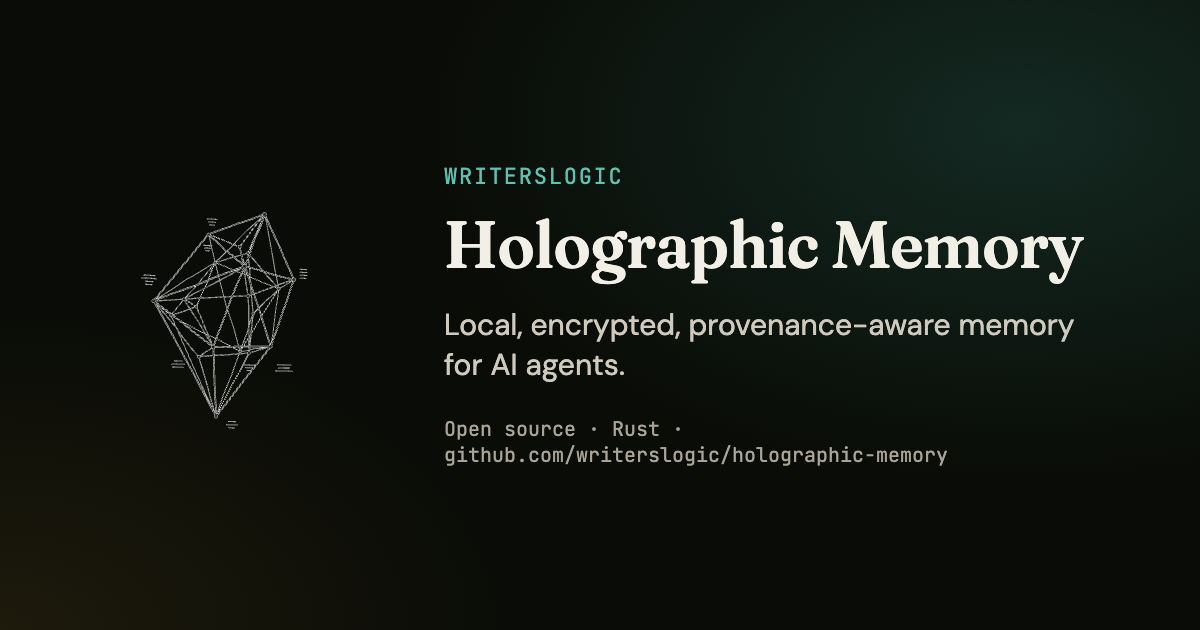
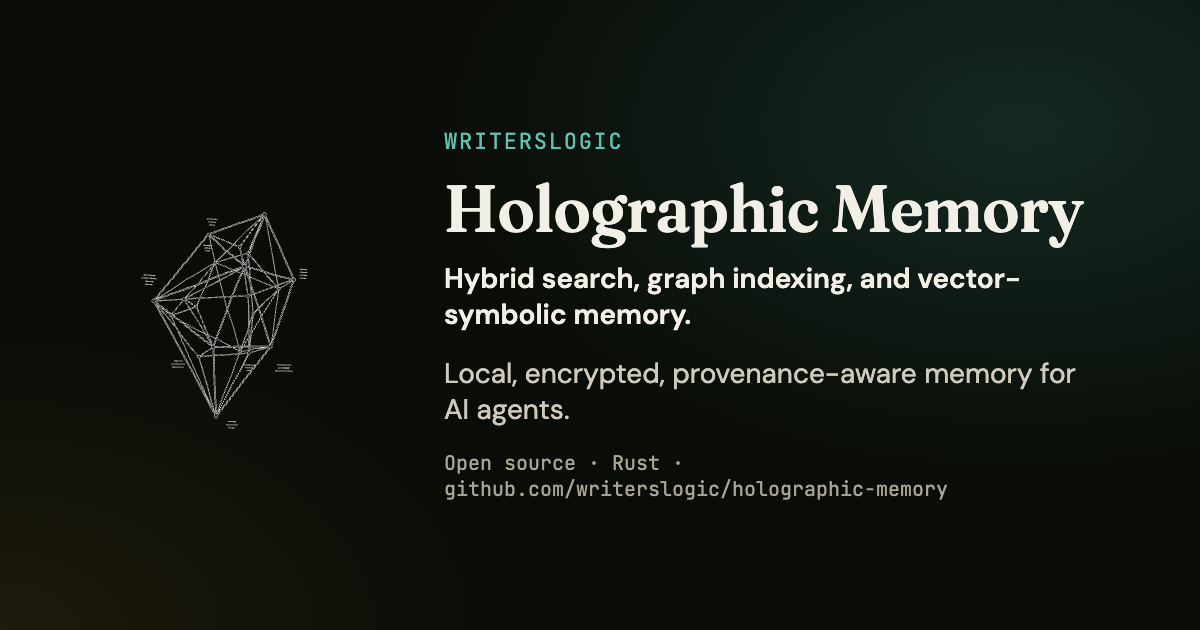
feat: redirect legacy memory domains to WARM

Changed region(s): [[0.37, 0.2111, 0.925, 0.8143]]

diff --git a/tests/apex-redirect.test.ts b/tests/apex-redirect.test.ts
@@ -1,33 +1,27 @@
 import { describe, expect, it } from "vitest";
-import { apexRedirect, docsRedirect, onRequest } from "../functions/_middleware";
+import { migrationRedirect, onRequest } from "../functions/_middleware";
 
-describe("www to apex redirect", () => {
-  it("sends www to the apex with path and query kept, leaves other hosts alone", () => {
-    expect(apexRedirect(new URL("http://www.holographic-memory.com/about?q=1#x"))).toBe(
-      "https://holographic-memory.com/about?q=1#x",
-    );
-    expect(apexRedirect(new URL("https://holographic-memory.com/"))).toBeNull();
-    expect(apexRedirect(new URL("https://www.holographic-memory.pages.dev/"))).toBeNull();
+describe("WARM migration", () => {
+  it("preserves product and documentation paths, queries and fragments", () => {
+    for (const host of ["holographic-memory.com", "www.holographic-memory.com"]) {
+      expect(migrationRedirect(new URL(`https://${host}/?plan=cloud#pricing`), "GET")).toBe("https://writerslogic.com/warm?plan=cloud#pricing");
+      expect(migrationRedirect(new URL(`https://${host}/docs/latest/quickstart/?q=1`), "HEAD")).toBe("https://writerslogic.com/warm/docs/latest/quickstart/?q=1");
+    }
+    expect(migrationRedirect(new URL("https://docs.holographic-memory.com/latest/quickstart/"), "GET")).toBe("https://writerslogic.com/warm/docs/latest/quickstart/");
   });
-
-  it("answers www with a 301 and passes the apex through", async () => {
-    const passed = new Response("ok");
-    const next = () => Promise.resolve(passed);
-    const www = await onRequest({ request: new Request("https://www.holographic-memory.com/a"), next });
-    expect(www.status).toBe(301);
-    expect(www.headers.get("location")).toBe("https://holographic-memory.com/a");
-    expect(await onRequest({ request: new Request("https://holographic-memory.com/a"), next })).toBe(passed);
-  });
-
-  it("sends /docs and its subpaths to the docs subdomain from either host", async () => {
-    expect(docsRedirect(new URL("https://holographic-memory.com/docs"))).toBe("https://docs.holographic-memory.com/");
-    expect(docsRedirect(new URL("https://www.holographic-memory.com/docs/latest/quickstart/?q=1"))).toBe(
-      "https://docs.holographic-memory.com/latest/quickstart/?q=1",
-    );
-    expect(docsRedirect(new URL("https://holographic-memory.com/docsearch"))).toBeNull();
-    const next = () => Promise.resolve(new Response("ok"));
-    const res = await onRequest({ request: new Request("https://www.holographic-memory.com/docs/dev/"), next });
-    expect(res.status).toBe(301);
-    expect(res.headers.get("location")).toBe("https://docs.holographic-memory.com/dev/");
+  it("leaves API requests, writes and preview hosts alone", async () => {
+    const next = () => Promise.resolve(new Response("passed"));
+    for (const [url, method] of [
+      ["https://holographic-memory.com/api/hms/checkout?plan=cloud", "GET"],
+      ["https://holographic-memory.com/api/hms/portal", "POST"],
+      ["https://holographic-memory.com/webhook", "POST"],
+      ["https://preview.holographic-memory.pages.dev/", "GET"],
+    ]) {
+      expect(migrationRedirect(new URL(url), method)).toBeNull();
+      expect(await (await onRequest({ request: new Request(url, { method }), next })).text()).toBe("passed");
+    }
+    const result = await onRequest({ request: new Request("https://holographic-memory.com/"), next });
+    expect(result.status).toBe(301);
+    expect(result.headers.get("location")).toBe("https://writerslogic.com/warm");
   });
 });

diff --git a/src/content/hms.ts b/src/content/hms.ts
@@ -3,12 +3,13 @@
 // Plain data (no import.meta.env, no React) so the page, the server render and the
 // tests can all import it. Every factual claim carries the committed source in
 // github.com/writerslogic/holographic-memory (main) that backs it; a claim without a
-// committed source is worded as "in progress". writerslogic.com keeps a shorter copy
-// of the shared claims in src/content/hms.ts; keep the two in step.
+// committed source is worded as "in progress". Keep the shorter product copy on
+// writerslogic.com in step with this file.
 
 import { SIFT_QPS_FACTOR_095 } from "./benchmarks";
 
 export const HMS_NAME = "Holographic Memory";
+export const HMS_TECHNICAL_LINE = "Hybrid search, graph indexing, and vector-symbolic memory.";
 export const HMS_FULL_NAME = "WritersLogic Holographic Memory";
 export const HMS_CLOUD_NAME = "WritersLogic Holographic Memory Cloud";
 export const HMS_SHORT = "HMS";
@@ -18,7 +19,7 @@ export const HMS_CANONICAL = `${HMS_PRODUCT_ORIGIN}/`;
 export const HMS_COMPANY_URL = "https://writerslogic.com";
 export const HMS_OG_IMAGE = `${HMS_PRODUCT_ORIGIN}/og-image.png`;
 export const HMS_OG_IMAGE_ALT =
-  "WritersLogic Holographic Memory: local, encrypted, provenance-aware memory for AI agents";
+  `WritersLogic Holographic Memory: ${HMS_TECHNICAL_LINE}`;
 
 export const HMS_TAGLINE =
   "Local, encrypted, provenance-aware memory for AI agents.";
@@ -294,12 +295,12 @@ export const HMS_FAQ: { q: string; a: string }[] = [
 // ── Static-shell metadata (written into dist/index.html by scripts/prerender.mjs)
 
 export const HMS_META = {
-  title: `${HMS_FULL_NAME}: Local, Encrypted Memory for AI Agents`,
+  title: `${HMS_FULL_NAME} | Hybrid Search, Graph Indexing, Vector-Symbolic Memory`,
   description:
-    "Embeddable memory for AI agents that runs on your machine. Hybrid search, vector-symbolic fact memory, optional encryption at rest and signed provenance in one open-source Rust engine. No service calls.",
+    `${HMS_TECHNICAL_LINE} Embeddable memory for AI agents that runs on your machine, with optional encryption at rest and signed provenance.`,
   ogTitle: `${HMS_FULL_NAME}`,
   ogDescription:
-    "Local, encrypted, provenance-aware memory for AI agents. Open-source Rust engine that stays on your machine; encrypted sync, backup and verification Cloud in development.",
+    `${HMS_TECHNICAL_LINE} An open-source Rust engine that stays on your machine.`,
 } as const;
 
 export const HMS_JSON_LD = {

diff --git a/functions/_middleware.ts b/functions/_middleware.ts
@@ -1,32 +1,18 @@
-// The apex is canonical: requests for www.holographic-memory.com get a permanent redirect
-// to the same path and query on holographic-memory.com. /docs and everything under it moves
-// to the docs subdomain, as writerslogic.com/docs does. Every other request passes through.
+const LEGACY_HOSTS = new Set(["holographic-memory.com", "www.holographic-memory.com", "docs.holographic-memory.com"]);
+const DESTINATION = "https://writerslogic.com/warm";
 
-const APEX = "holographic-memory.com";
-const DOCS = `https://docs.${APEX}`;
-
-export function docsRedirect(url: URL): string | null {
-  if (url.pathname !== "/docs" && !url.pathname.startsWith("/docs/")) return null;
-  return DOCS + (url.pathname.slice("/docs".length) || "/") + url.search;
+export function migrationRedirect(url: URL, method: string): string | null {
+  if (!LEGACY_HOSTS.has(url.hostname) || !["GET", "HEAD"].includes(method)) return null;
+  if (url.pathname === "/api" || url.pathname.startsWith("/api/")) return null;
+  const docsHost = url.hostname === "docs.holographic-memory.com";
+  const path = url.pathname === "/" ? "" : url.pathname;
+  return `${DESTINATION}${docsHost ? "/docs" : ""}${path}${url.search}${url.hash}`;
 }
 
-export function apexRedirect(url: URL): string | null {
-  if (url.hostname !== `www.${APEX}`) return null;
-  const to = new URL(url.toString());
-  to.hostname = APEX;
-  to.protocol = "https:";
-  to.port = "";
-  return to.toString();
-}
-
-export const onRequest = async ({
-  request,
-  next,
-}: {
+export const onRequest = async ({ request, next }: {
   request: Request;
   next: () => Promise<Response>;
 }): Promise<Response> => {
-  const url = new URL(request.url);
-  const to = docsRedirect(url) ?? apexRedirect(url);
-  return to ? Response.redirect(to, 301) : next();
+  const target = migrationRedirect(new URL(request.url), request.method);
+  return target ? Response.redirect(target, 301) : next();
 };

diff --git a/tests/docs-redirect.test.ts b/tests/docs-redirect.test.ts
@@ -1,0 +1,27 @@
+import { describe, expect, it } from "vitest";
+import { createHash } from "node:crypto";
+import worker from "../workers/docs-redirect/index.js";
+
+describe("legacy documentation migration", () => {
+  it("preserves the published immutable context bytes at their original URI", async () => {
+    const response = await worker.fetch(new Request("https://docs.holographic-memory.com/ns/hms/v1.jsonld"));
+    expect(response.status).toBe(200);
+    expect(response.headers.get("content-type")).toContain("application/ld+json");
[1 lines of base64/hex data omitted]
+  });
+  it("makes the latest destination explicit for retired documentation versions", async () => {
+    for (const version of ["v0.6.4", "v0.6.3", "v0.6.1"]) {
+      const result = await worker.fetch(new Request(`https://docs.holographic-memory.com/${version}/quickstart/?q=1`));
+      expect(result.headers.get("location")).toBe("https://writerslogic.com/warm/docs/latest/quickstart/?q=1");
+    }
+  });
+
+  it("redirects documentation paths and queries while refusing writes", async () => {
+    const result = await worker.fetch(new Request("https://docs.holographic-memory.com/latest/quickstart/?q=1"));
+    expect(result.status).toBe(301);
+    expect(result.headers.get("location")).toBe("https://writerslogic.com/warm/docs/latest/quickstart/?q=1");
+    const write = await worker.fetch(new Request("https://docs.holographic-memory.com/api", { method: "POST" }));
+    expect(write.status).toBe(405);
+    expect(write.headers.get("location")).toBeNull();
+  });
+});

diff --git a/tests/docs-redirect-artifact.test.ts b/tests/docs-redirect-artifact.test.ts
@@ -1,0 +1,22 @@
+import { describe, expect, it } from "vitest";
+import { runInNewContext } from "node:vm";
+import { destination, redirectHtml } from "../scripts/build-docs-redirects.mjs";
+
+describe("GitHub Pages documentation redirects", () => {
+  it("retains documentation paths and names current documentation explicitly", () => {
+    expect(destination("/latest/quickstart/")).toBe("https://writerslogic.com/warm/docs/latest/quickstart/");
+    for (const version of ["v0.6.4", "v0.6.3", "v0.6.1"]) {
+      expect(destination(`/${version}/quickstart/`)).toBe("https://writerslogic.com/warm/docs/latest/quickstart/");
+      expect(destination(`/${version}`)).toBe("https://writerslogic.com/warm/docs/latest/");
+    }
+  });
+  it("preserves queries and fragments during browser navigation, including fallback paths", () => {
+    let target = "";
+    const html = redirectHtml("/", true);
+    const script = html.match(/<script>([\s\S]*?)<\/script>/)![1];
+    runInNewContext(script, { location: { pathname: "/v0.6.4/guide/", search: "?query=a%26b", hash: "#setup", replace: (value: string) => { target = value; } } });
+    expect(target).toBe("https://writerslogic.com/warm/docs/latest/guide/?query=a%26b#setup");
+    expect(html).not.toContain('http-equiv="refresh"');
+    expect(redirectHtml("/latest/")).toContain('http-equiv="refresh"');
+  });
+});

diff --git a/tests/hms-billing-proxy.test.ts b/tests/hms-billing-proxy.test.ts
@@ -6,7 +6,7 @@ describe("/api/hms proxy", () => {
 
   it("maps the three routes to the live Worker, previews to the test twin", () => {
     expect(target(new URL("https://holographic-memory.com/api/hms/checkout?plan=team"), "GET")).toBe(
-      "https://writerslogic.com/api/hms/checkout?plan=team",
+      "https://writerslogic.com/api/warm/checkout?plan=team",
     );
     expect(target(new URL("https://feat-hms-billing.holographic-memory.pages.dev/api/hms/portal"), "POST")).toBe(
       "https://hms-billing-test.writerslogic.com/api/hms-staging/portal",
@@ -27,7 +27,7 @@ describe("/api/hms proxy", () => {
     expect(res.status).toBe(303);
     expect(res.headers.get("location")).toBe("https://checkout.stripe.com/c/pay/cs_test_1");
     const [url, init] = fetchMock.mock.calls[0] as unknown as [string, RequestInit];
-    expect(url).toBe("https://writerslogic.com/api/hms/checkout?plan=cloud");
+    expect(url).toBe("https://writerslogic.com/api/warm/checkout?plan=cloud");
     const headers = new Headers(init.headers);
     expect(headers.get("x-hms-site-origin")).toBe("https://holographic-memory.com");
     expect(headers.get("cookie")).toBeNull();

diff --git a/scripts/assets/og-image.html b/scripts/assets/og-image.html
@@ -24,8 +24,9 @@
   }
   img { width: 300px; height: 300px; flex: none; }
   .eyebrow { font-family: "JB Mono", monospace; font-size: 22px; letter-spacing: 0.08em; text-transform: uppercase; color: #5FC2B1; margin: 0 0 18px; }
-  h1 { font-family: "WL Display", serif; font-weight: 600; font-size: 66px; line-height: 1.04; margin: 0 0 26px; }
-  p { font-size: 30px; line-height: 1.35; color: #CFCABD; margin: 0 0 30px; max-width: 640px; }
+  h1 { font-family: "WL Display", serif; font-weight: 600; font-size: 66px; line-height: 1.04; margin: 0 0 18px; }
+  p { font-size: 28px; line-height: 1.3; color: #CFCABD; margin: 0 0 22px; max-width: 640px; }
+  .technical { color: #F2EFE6; font-weight: 600; }
   .meta { font-family: "JB Mono", monospace; font-size: 20px; color: #A9A495; }
 </style>
 </head>
@@ -34,6 +35,7 @@
   <div>
     <p class="eyebrow">WritersLogic</p>
     <h1>Holographic Memory</h1>
+    <p class="technical">Hybrid search, graph indexing, and vector-symbolic memory.</p>
     <p>Local, encrypted, provenance-aware memory for AI agents.</p>
     <div class="meta">Open source · Rust · github.com/writerslogic/holographic-memory</div>
   </div>

diff --git a/workers/docs-redirect/index.js b/workers/docs-redirect/index.js
@@ -1,0 +1,22 @@
+import legacyContext from "./legacy-context.js";
+
+export default {
+  async fetch(request) {
+    const url = new URL(request.url);
+    if (!["GET", "HEAD"].includes(request.method)) {
+      return new Response("Method not allowed", { status: 405, headers: { allow: "GET, HEAD" } });
+    }
+    if (url.pathname === "/ns/hms/v1.jsonld") {
+      return new Response(request.method === "HEAD" ? null : legacyContext, {
+        headers: {
+          "content-type": "application/ld+json; charset=utf-8",
+          "cache-control": "public, max-age=31536000, immutable",
+          "access-control-allow-origin": "*",
+        },
+      });
+    }
+    const legacy = ["/v0.6.4", "/v0.6.3", "/v0.6.1"].find((version) => url.pathname === version || url.pathname.startsWith(`${version}/`));
+    const path = legacy ? `/latest${url.pathname.slice(legacy.length) || "/"}` : url.pathname;
+    return Response.redirect(`https://writerslogic.com/warm/docs${path}${url.search}`, 301);
+  },
+};

diff --git a/src/ProductPage.tsx b/src/ProductPage.tsx
@@ -20,6 +20,7 @@ import {
   HMS_LINKS,
   HMS_LOCAL_FIRST_NOTE,
   HMS_NAME,
+  HMS_TECHNICAL_LINE,
   HMS_HERO_LINE,
   HMS_HERO_LINE_SHORT,
   HMS_OSS_VS_CLOUD,
@@ -262,10 +263,13 @@ export function ProductPage() {
             id="hms-heading"
             className="hero__title font-serif font-semibold tracking-tight text-balance text-slate-100"
           >
-            {HMS_TAGLINE}
+            {HMS_NAME}
           </h1>
+          <p className="hero__technical-line text-slate-100 max-w-2xl mx-auto">
+            {HMS_TECHNICAL_LINE}
+          </p>
           <p className="hero__line text-slate-300 max-w-2xl mx-auto">
-            <span className="hero__long">{HMS_HERO_LINE}</span>
+            <span className="hero__long">{HMS_TAGLINE} {HMS_HERO_LINE}</span>
             <span className="hero__short">{HMS_HERO_LINE_SHORT}</span>
           </p>
           <InstallCommands lines={INSTALL} />

diff --git a/workers/docs-redirect/legacy-context.js b/workers/docs-redirect/legacy-context.js
@@ -1,0 +1,1 @@
+export default "{\n  \"@context\": {\n    \"@protected\": true,\n    \"HMSFactCredential\": \"https://writerslogic.com/ns/hms/v1#HMSFactCredential\",\n    \"contentHash\": \"https://writerslogic.com/ns/hms/v1#contentHash\",\n    \"encodingMethod\": \"https://writerslogic.com/ns/hms/v1#encodingMethod\",\n    \"dimensions\": \"https://writerslogic.com/ns/hms/v1#dimensions\",\n    \"sourceUri\": {\"@id\": \"https://writerslogic.com/ns/hms/v1#sourceUri\", \"@type\": \"@id\"},\n    \"subjectId\": \"https://writerslogic.com/ns/hms/v1#subjectId\",\n    \"relationId\": \"https://writerslogic.com/ns/hms/v1#relationId\",\n    \"objectId\": \"https://writerslogic.com/ns/hms/v1#objectId\"\n  }\n}\n";

diff --git a/e2e/hero.spec.ts b/e2e/hero.spec.ts
@@ -11,6 +11,14 @@ const SIZES = [
   [360, 640],
 ] as const;
 
+test("hero places the technical line under the product name", async ({ page }) => {
+  await page.goto("/");
+  await expect(page.locator("#hms-heading")).toHaveText("Holographic Memory");
+  await expect(page.locator("#hms-heading + .hero__technical-line")).toHaveText(
+    "Hybrid search, graph indexing, and vector-symbolic memory.",
+  );
+});
+
 for (const [width, height] of SIZES) {
   test(`hero title through CTAs fit the first viewport at ${width}x${height}`, async ({ page }, info) => {
     await page.setViewportSize({ width, height });

diff --git a/src/styles/parts/components.css b/src/styles/parts/components.css
@@ -1005,7 +1005,12 @@ main.relative::before {
 .hero__proof { position: relative; width: 100%; padding-top: clamp(1rem, 3svh, 2rem); }
 .hero__title {
   font-size: clamp(1.75rem, min(1rem + 3.2vw, 0.75rem + 5.2svh), 3.25rem);
-  line-height: 1.12; margin: 0 0 clamp(0.75rem, 2.2svh, 1.25rem);
+  line-height: 1.12; margin: 0 0 clamp(0.35rem, 1svh, 0.6rem);
+}
+.hero__technical-line {
+  font-size: clamp(1rem, 0.9rem + 0.55vw, 1.3rem);
+  line-height: 1.35; font-weight: 600;
+  margin: 0 auto clamp(0.7rem, 2svh, 1.1rem);
 }
 .hero__line {
   font-size: clamp(1rem, 0.94rem + 0.3vw, 1.125rem); line-height: 1.6;
